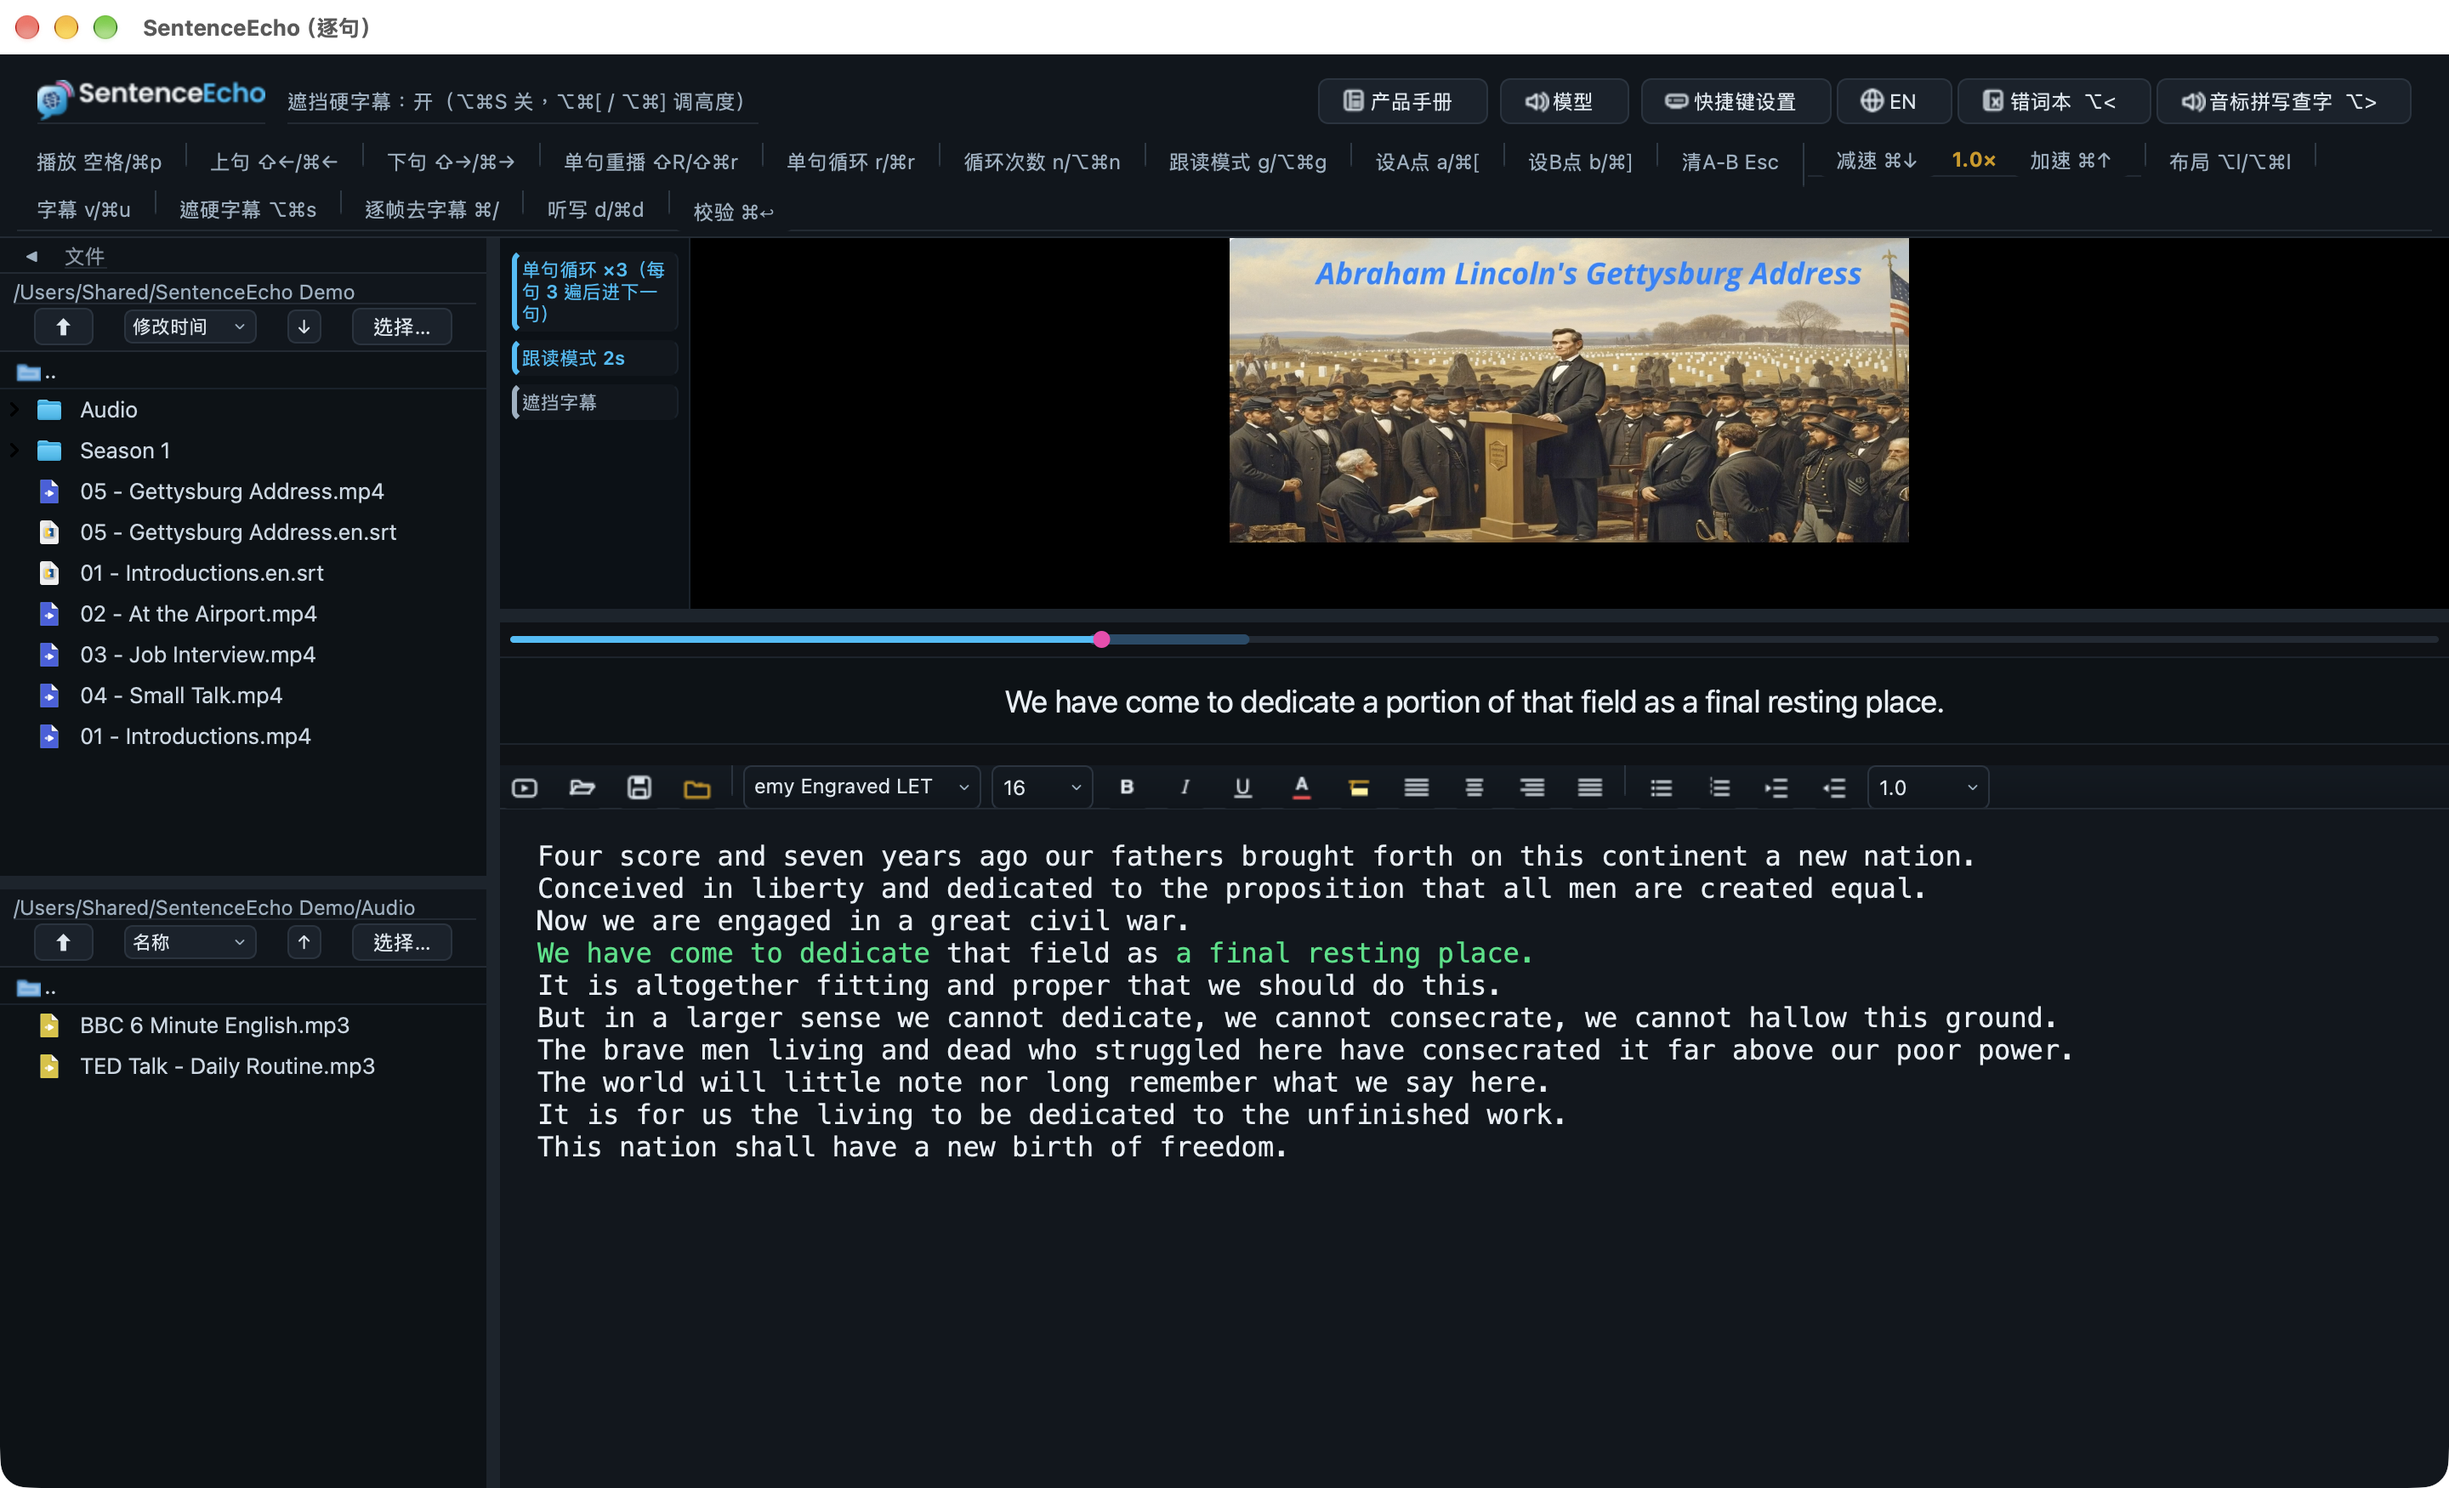
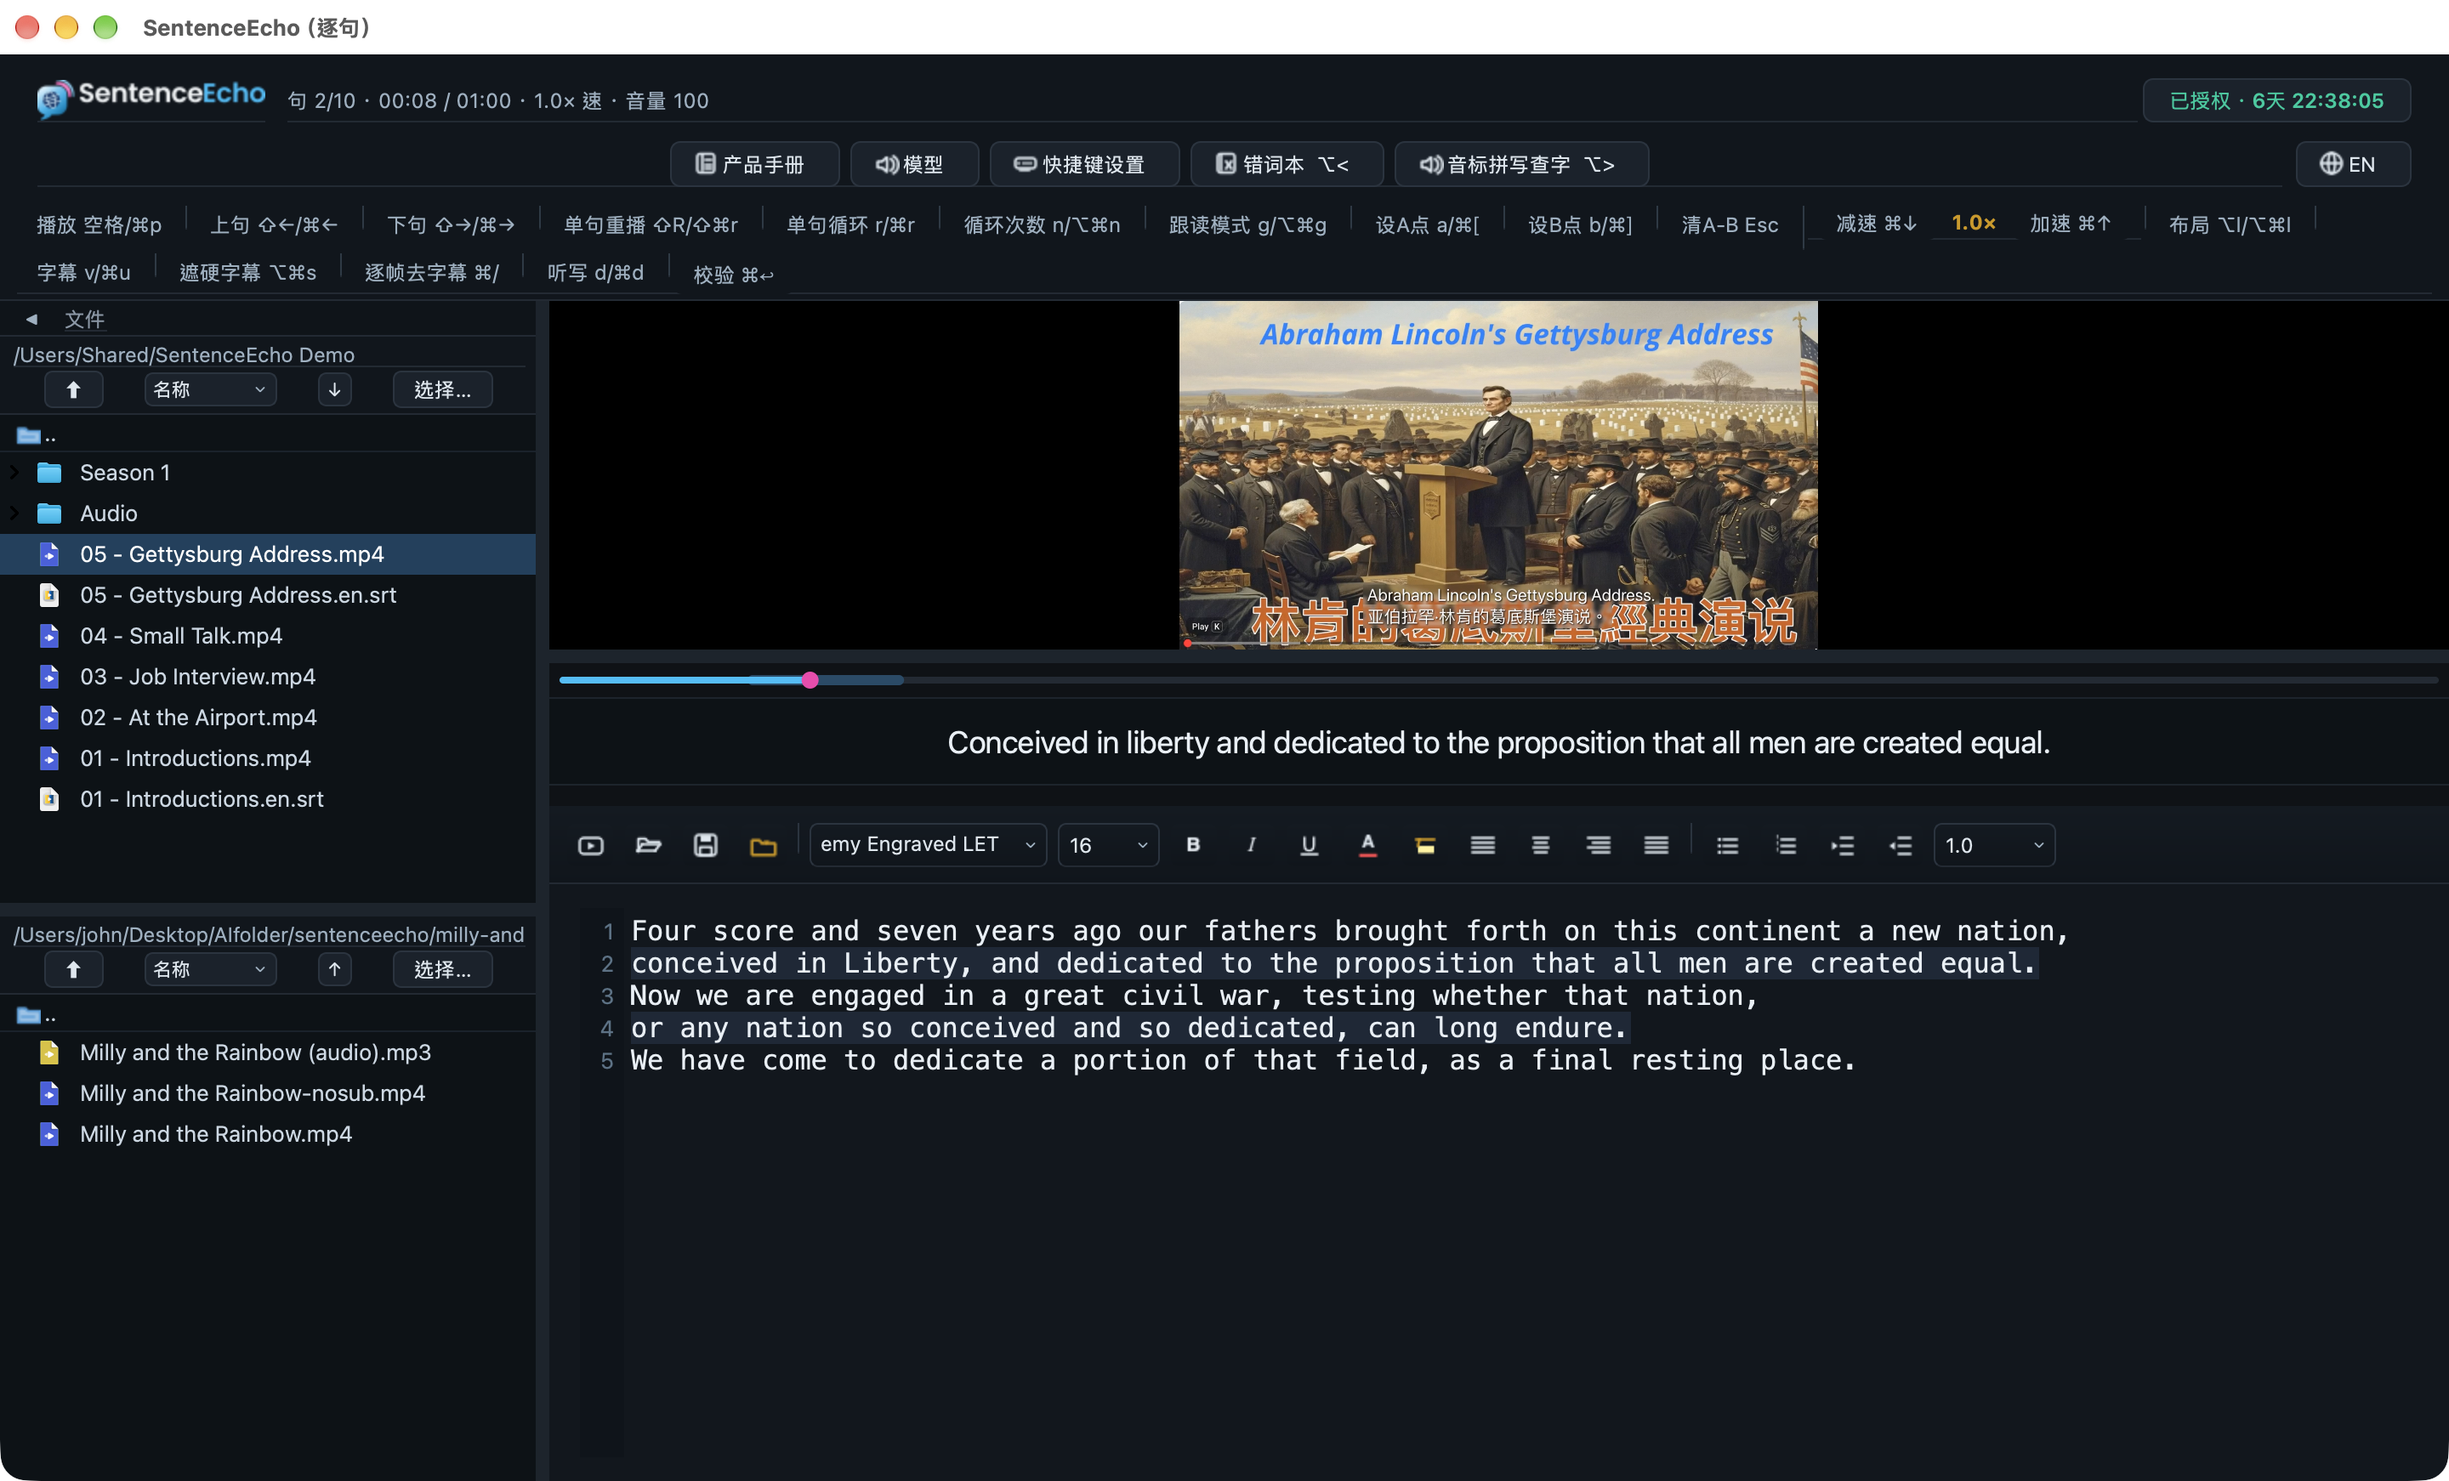
shots: 主界面换新（行号+隔行底纹+授权倒计时）、音标查字与错词本对话框换新

Changed region(s): [[0.0, 0.062, 1.0, 0.775], [0.875, 0.062, 0.9688, 0.124], [0.8125, 0.062, 0.8438, 0.124]]

diff --git a/index.html b/index.html
@@ -94,7 +94,7 @@
 
       <figure class="shot reveal">
         <div class="shot-frame">
-          <img id="shotimg" src="assets/app-zh.png" alt="SentenceEcho 主界面：上方播放与字幕，下方 Word 式文稿" width="2880" height="1750" fetchpriority="high" decoding="async">
+          <img id="shotimg" src="assets/app-zh.png" alt="SentenceEcho 主界面：上方播放与字幕，下方带行号的 Word 式文稿" width="2880" height="1742" fetchpriority="high" decoding="async">
         </div>
         <figcaption class="shot-cap">
           <span data-i18n="shot_cap_l">同一窗口：播放、字幕、Word 式文稿；左侧两棵独立文件树</span>
@@ -611,11 +611,11 @@
       </div>
       <div class="g2">
         <figure style="margin:0">
-          <img class="dlg-shot" src="assets/dlg-ipa.png" alt="音标拼写查字对话框" width="1224" height="860" loading="lazy" decoding="async">
+          <img class="dlg-shot" src="assets/dlg-ipa.png" alt="音标拼写查字对话框" width="2072" height="1260" loading="lazy" decoding="async">
           <figcaption style="color:var(--dim);font-size:12.5px;margin-top:8px" data-i18n="wf_cap1">音标拼写查字：音素键盘 + 拼写模糊，查到回车即插入</figcaption>
         </figure>
         <figure style="margin:0">
-          <img class="dlg-shot" src="assets/dlg-wordbook.png" alt="错词本对话框" width="1224" height="860" loading="lazy" decoding="async">
+          <img class="dlg-shot" src="assets/dlg-wordbook.png" alt="错词本对话框" width="1800" height="1184" loading="lazy" decoding="async">
           <figcaption style="color:var(--dim);font-size:12.5px;margin-top:8px" data-i18n="wf_cap2">错词本：按错误次数排序，一键导出 Excel</figcaption>
         </figure>
       </div>
